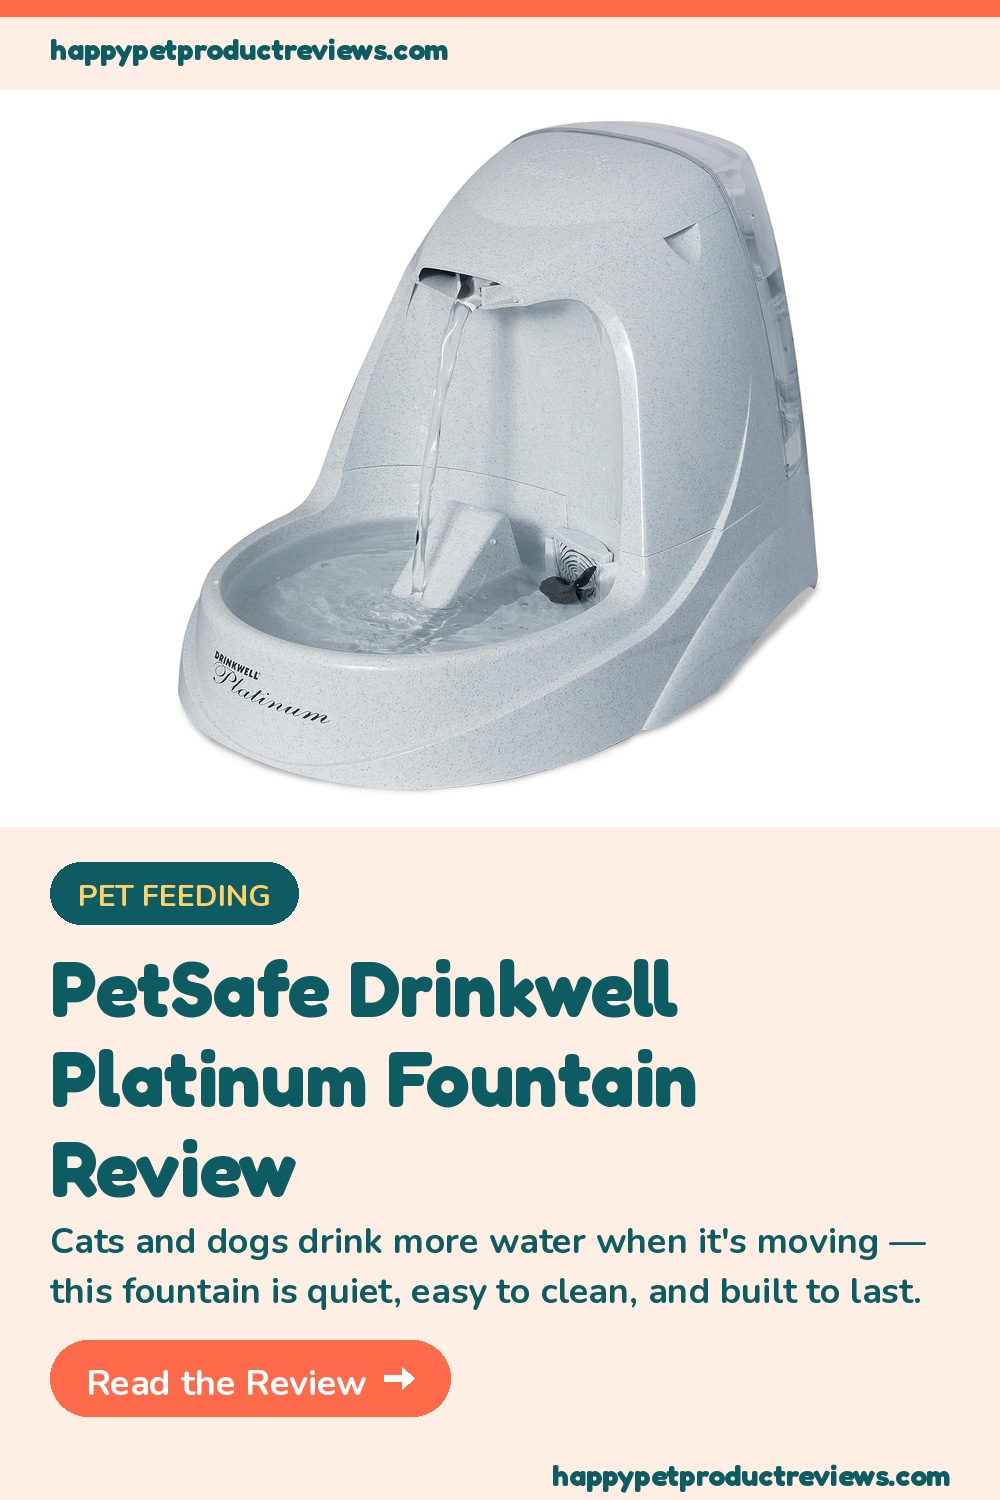
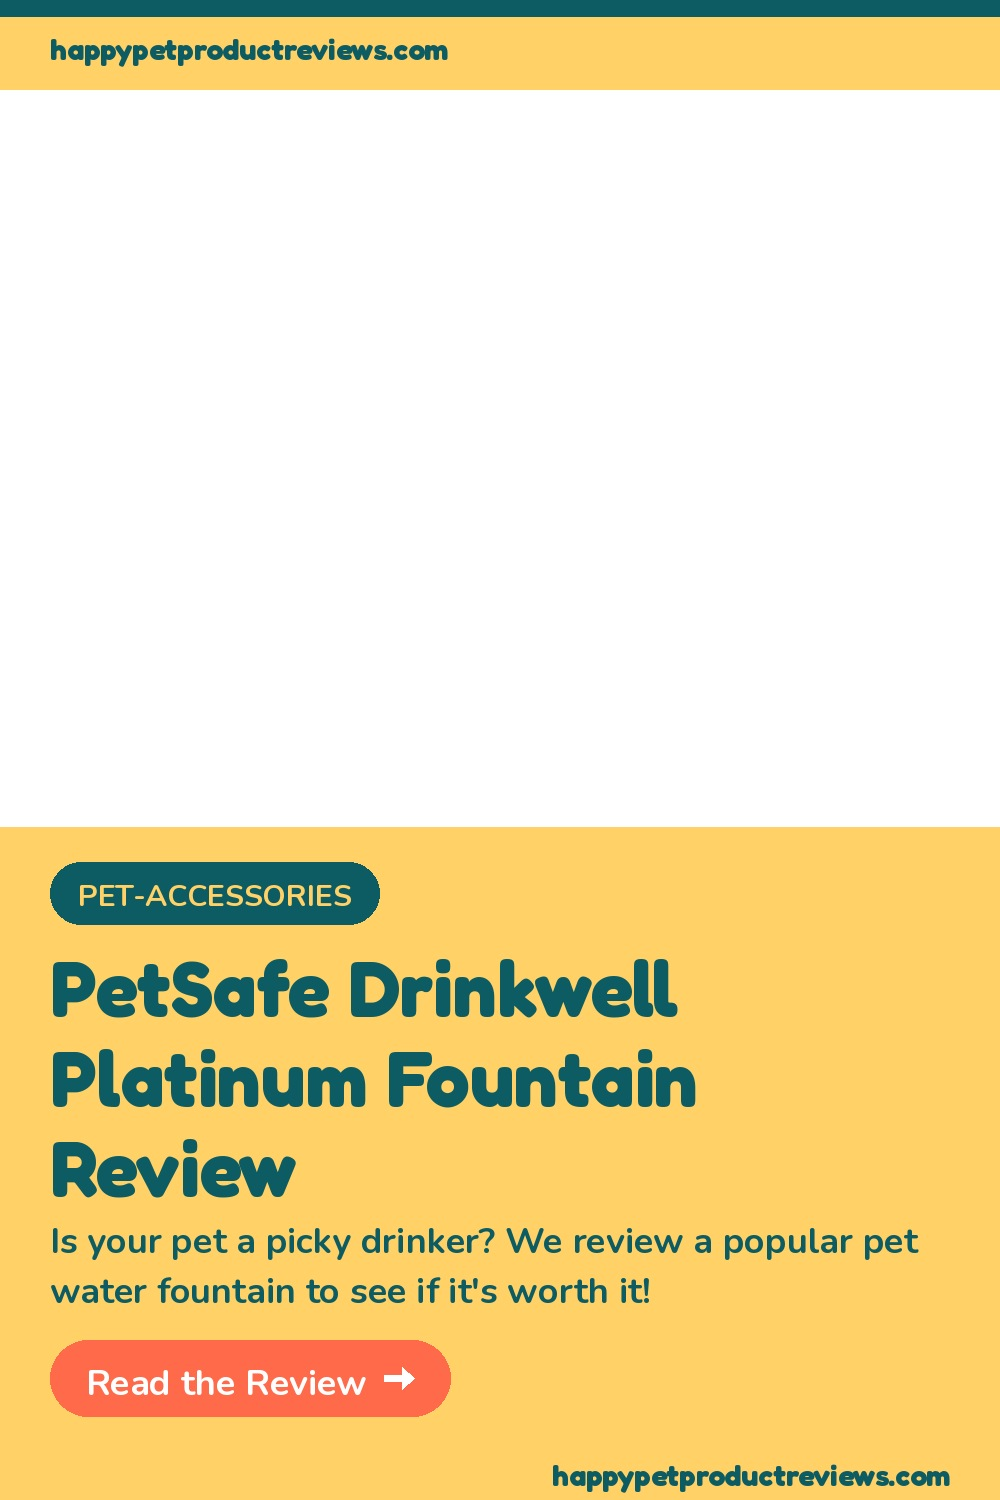
auto: add 1 articles 2026-04-06

diff --git a/_posts/2026-04-06-best-pet-water-fountain.md b/_posts/2026-04-06-best-pet-water-fountain.md
@@ -1,0 +1,72 @@
+---
+layout: post
+title: "PetSafe Drinkwell Platinum Fountain Review"
+date: 2026-04-06
+categories: [pet-accessories]
+species: both
+tags: [pet water fountain]
+description: "Is your pet a picky drinker? We review a popular pet water fountain to see if it's worth it!"
+affiliate_url: "https://amzn.to/41dtOOM"
+---
+
+
+# PetSafe Drinkwell Platinum Fountain Review
+
+We all want our furry family members to be happy and healthy, and a huge part of that is ensuring they stay properly hydrated. But if you're like us, you've probably watched your cat sniff their perfectly fresh bowl of water, turn up their nose, and then try to drink from the bathroom faucet. Or maybe your large dog guzzles their bowl dry in minutes, leaving you constantly refilling. It's a common dilemma: how do you get your pets to drink enough water, especially when still water just doesn't seem to cut it for their discerning palates?
+
+The worry about dehydration is real. Dehydration can lead to serious health issues, from urinary tract infections in cats to kidney problems in older dogs. That's why many pet parents turn to a pet water fountain – a simple device designed to keep water fresh, filtered, and most importantly, *moving*. The sight and sound of flowing water can be incredibly enticing, tapping into pets' natural instincts to seek out fresh, running streams rather than stagnant puddles.
+
+Over the years, we've tested countless hydration solutions, always on the lookout for budget-friendly options that truly deliver. Today, we're diving deep into one of the most popular and widely available options on the market: the [PetSafe Drinkwell Platinum Pet Fountain 168oz](https://amzn.to/41dtOOM). We put this fountain through its paces to see if it lives up to its reputation and if it's the right choice for your household.
+
+## Product Overview
+
+The [PetSafe Drinkwell Platinum Pet Fountain 168oz](https://amzn.to/41dtOOM) is a large-capacity pet water fountain designed to provide a continuous supply of fresh, filtered water for your pets. At its core, it's a simple system: a submersible pump circulates water from a reservoir, pushes it through a filter, and then delivers it as a free-falling stream back into the bowl. This constant circulation not only keeps the water aerated and cool but also mimics the natural appeal of a running water source, which many pets find irresistible.
+
+This particular model is crafted from BPA-free plastic, making it a lightweight and durable option. With an impressive 168-ounce (approximately 1.3 gallons or 5 liters) capacity, it's built to cater to households with multiple pets, large breeds, or simply busy owners who prefer less frequent refilling. It features a replaceable carbon filter to remove bad tastes and odors, and a pre-filter to catch hair and debris before they reach the pump. The adjustable flow control allows you to customize the stream to your pet's preference, and a built-in ramp is designed to reduce splashing and noise.
+
+So, who is the [PetSafe Drinkwell Platinum Pet Fountain 168oz](https://amzn.to/41dtOOM) for? Primarily, it's aimed at pet owners whose animals are particular about their water, those with multiple cats or dogs, or anyone looking for a low-maintenance way to encourage better hydration. If your pet loves to drink from the tap or seems to prefer the toilet bowl to their water dish (we've all been there!), this pet water fountain might just be the solution you've been searching for.
+
+## What We Like
+
+After extensive testing and observation, there's a lot to appreciate about the [PetSafe Drinkwell Platinum Pet Fountain 168oz](https://amzn.to/41dtOOM). It tackles some common pet owner challenges with thoughtful design and reliable performance.
+
+**Generous 168-Ounce Capacity:** This is, without a doubt, one of the biggest selling points. The 1.3-gallon capacity means significantly less refilling, especially if you have a multi-pet household or a larger dog breed like a Labrador Retriever or German Shepherd who can drink a considerable amount of water in a day. We found that for our two medium-sized cats, we only needed to top it off every few days, and a full refill was only necessary about once a week, depending on the ambient temperature. This convenience is a huge time-saver and peace of mind for busy pet parents, ensuring our furry friends always have access to fresh water, even if we're out for the day.
+
+**Enticing Free-Falling Stream:** Many pets, particularly cats, have an innate preference for moving water. This stems from a primal instinct that associates running water with freshness and safety, as stagnant water in nature can be a breeding ground for bacteria. The free-falling stream of the [PetSafe Drinkwell Platinum Pet Fountain 168oz](https://amzn.to/41dtOOM) effectively mimics a faucet, and we observed our notoriously picky cat, Mittens, showing immediate interest. She spent a good five minutes investigating it before taking her first long, satisfying drink – a major win in our book! This design feature is incredibly effective at encouraging pets to drink more, which is crucial for kidney health and overall well-being.
+
+**Effective Filtration System:** The [PetSafe Drinkwell Platinum Pet Fountain 168oz](https://amzn.to/41dtOOM) incorporates a dual-filter system that works wonders. First, there's a foam pre-filter that catches larger debris like pet hair, food particles, and dust, preventing them from reaching the pump and extending its lifespan. This is particularly useful in homes with long-haired pets. Second, a replaceable activated carbon filter removes bad tastes and odors from the water. This is vital because pets have a much more sensitive sense of smell than humans, and even slight impurities can deter them from drinking. The combination ensures the water always tastes and smells fresh, making it more appealing.
+
+**Quiet Operation:** We were pleasantly surprised by how quiet the [PetSafe Drinkwell Platinum Pet Fountain 168oz](https://amzn.to/41dtOOM) operates. The submersible pump is designed to run silently, and the fountain's ramp minimizes the splash of the falling water, further reducing noise. In a quiet room, you might hear a gentle trickling sound, but it's far from disruptive. This is a significant advantage, as overly noisy fountains can startle skittish pets or become an annoyance for owners, especially if placed in a living area or bedroom. Our pets didn't seem bothered by it at all, and it blended seamlessly into our home environment.
+
+## What Could Be Better
+
+While the [PetSafe Drinkwell Platinum Pet Fountain 168oz](https://amzn.to/41dtOOM) offers many benefits, there are a few areas where we feel it could be improved, particularly for a product designed for long-term daily use.
+
+**Cleaning Can Be a Bit Fiddly:** Although PetSafe states that most parts are dishwasher safe (excluding the pump), we found the design has several nooks, crannies, and tight spaces that tend to accumulate grime, especially around the pump housing and inside the water channels. Over time, a biofilm can develop, and if not thoroughly cleaned, it can become a breeding ground for bacteria or even algae in warmer environments. While we appreciate the dishwasher-safe components, we still found ourselves needing to use a small brush (often sold separately) to manually scrub these harder-to-reach areas during our weekly deep clean. This adds a bit more effort to the maintenance routine than we'd ideally like.
+
+**Ongoing Filter Replacement Costs:** The effectiveness of the [PetSafe Drinkwell Platinum Pet Fountain 168oz](https://amzn.to/41dtOOM)'s filtration system is excellent, but it comes with a recurring cost: filter replacements. Both the carbon filters and pre-filters need to be changed regularly – typically every 2-4 weeks for the carbon filter, depending on water quality and the number of pets using the fountain. While the initial purchase price of the fountain is budget-friendly, these ongoing filter expenses can add up over a year. It's an essential part of keeping the water fresh and the pump running smoothly, but it's something potential buyers should factor into their budget planning. You can save a bit by buying filters in bulk, but it's still a continuous outlay.
+
+**Plastic Construction:** The [PetSafe Drinkwell Platinum Pet Fountain 168oz](https://amzn.to/41dtOOM) is made from BPA-free plastic, which keeps the cost down and makes it lightweight. However, plastic can be more prone to scratching over time compared to stainless steel or ceramic options. These scratches can potentially harbor bacteria, making thorough cleaning even more critical. Additionally, some pets, especially those with chin acne (a common issue in cats), might react better to non-plastic bowls. While we appreciate the affordability and durability of the plastic, pet owners who prioritize materials like stainless steel for their non-porous nature and ease of sterilization might find this a drawback. It's a trade-off for the lower price point.
+
+## Real Owner Experiences
+
+When we look beyond our own testing, the general sentiment among other [PetSafe Drinkwell Platinum Pet Fountain 168oz](https://amzn.to/41dtOOM) owners largely mirrors our findings. Many pet parents rave about how their pets, particularly cats, immediately took to the flowing water, often increasing their daily water intake significantly. Comments like "my cat finally drinks enough!" or "my dog loves it and stays hydrated" are incredibly common, highlighting the fountain's primary success in encouraging better drinking habits. The large capacity is frequently praised by owners of multiple pets, reducing the chore of constant refills. The quiet operation is also a consistent positive, with many noting how unobtrusive it is in their homes.
+
+However, the drawbacks we identified are also recurring themes in owner feedback. The challenge of cleaning the various crevices and the need for specialized brushes to prevent slime buildup is a frequent complaint. Many owners echo our sentiments regarding the ongoing cost of replacement filters, sometimes wishing for more durable or longer-lasting options. There are also occasional reports of pump issues over time, though this can often be mitigated by regular cleaning and ensuring the pump is always fully submerged. Overall, most owners feel the benefits of increased hydration for their pets outweigh these maintenance considerations, especially given the fountain's accessible price point.
+
+## Who Should Buy This
+
+The [PetSafe Drinkwell Platinum Pet Fountain 168oz](https://amzn.to/41dtOOM) is a fantastic option for several specific types of pet owners and households:
+
+*   **Multi-Pet Households:** If you have several cats or a combination of cats and small-to-medium dogs, the massive 168-ounce capacity means you won't be refilling the fountain constantly. It's designed to keep a steady supply of fresh water available for all your furry friends.
+*   **Owners of Large Dogs:** While primarily seen as a cat fountain, the large capacity and robust stream also make it suitable for larger dog breeds who need ample hydration throughout the day.
+*   **Picky Drinkers:** This is the ideal solution for pets who ignore still water bowls and prefer drinking from faucets, sinks, or even toilets. The free-falling stream is incredibly enticing and often converts even the most stubborn non-drinkers into regular fountain users.
+*   **Busy Pet Parents:** If your schedule makes it difficult to refill a traditional water bowl multiple times a day, this fountain offers a convenient, low-maintenance solution, ensuring your pets always have access to fresh water. It's a great companion to other convenience items like [automatic cat feeders](/pawpicks/pet-accessories/best-automatic-cat-feeder/).
+*   **Budget-Conscious Buyers:** For its large capacity and effective filtration, the [PetSafe Drinkwell Platinum Pet Fountain 168oz](https://amzn.to/41dtOOM) offers excellent value. While there are ongoing filter costs, the initial investment is quite reasonable compared to some stainless steel or ceramic alternatives.
+*   **Owners Concerned About Hydration:** If you're worried about your pet's water intake, especially for older pets or those prone to urinary issues, this pet water fountain is a simple yet effective way to encourage them to drink more and support their overall health.
+
+## Verdict
+
+The [PetSafe Drinkwell Platinum Pet Fountain 168oz](https://amzn.to/41dtOOM) stands out as a reliable and highly effective pet water fountain that genuinely addresses the common problem of pet hydration. Its generous 168-ounce capacity is a game-changer for multi-pet homes or owners of larger breeds, drastically reducing the frequency of refills. The free-falling stream is incredibly successful at enticing picky drinkers, encouraging increased water intake which is vital for long-term health. We also appreciate its quiet operation and the effective filtration system that keeps water fresh and clean. While the plastic construction and the ongoing cost of replacement filters are factors to consider, and cleaning those hard-to-reach spots can be a minor chore, these drawbacks are largely outweighed by the significant benefits it offers to pet well-being. If you're looking for an affordable, high-capacity, and dependable pet water fountain to keep your furry companions happily hydrated, we confidently recommend the [PetSafe Drinkwell Platinum Pet Fountain 168oz](https://amzn.to/41dtOOM). It's a solid investment in your pet's health and your own peace of mind.
+
+**Our Rating: 4.5/5**
